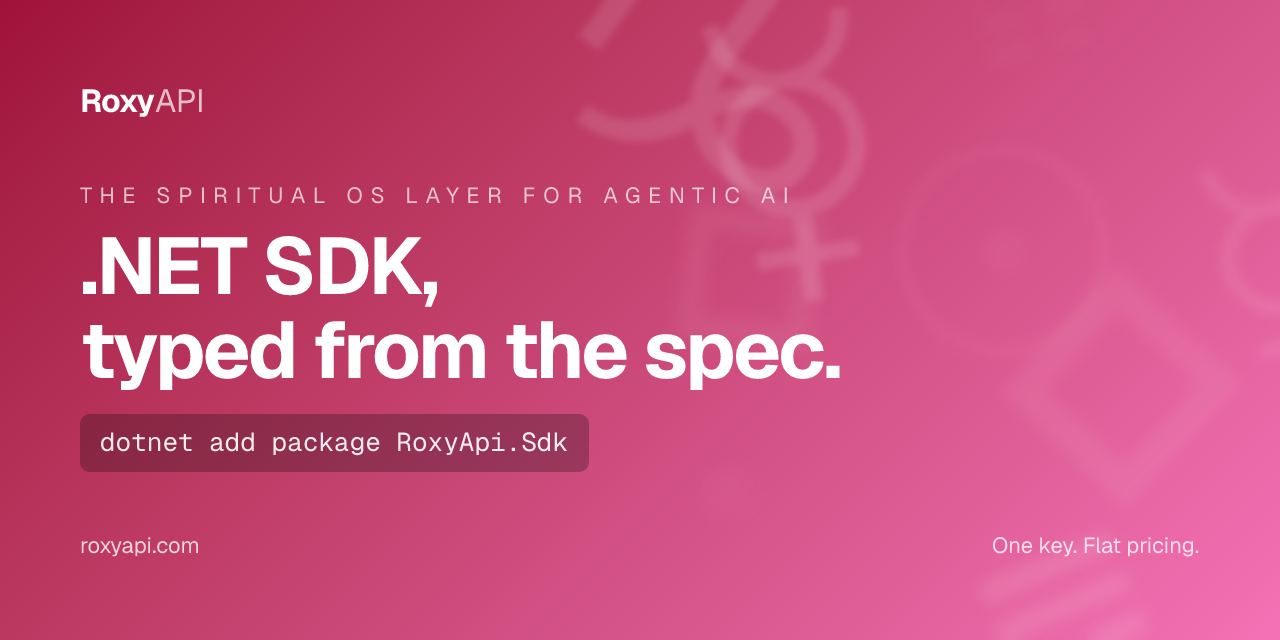
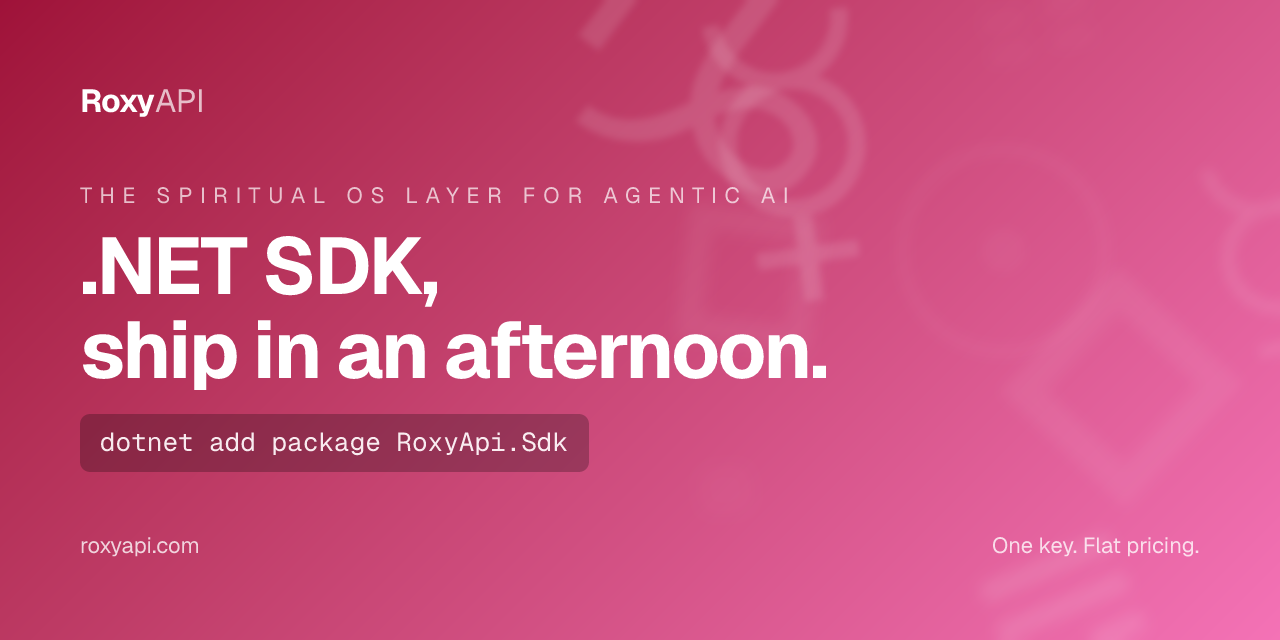
docs: hero promise line sells the outcome

Changed region(s): [[0.0625, 0.5, 0.6562, 0.625]]

diff --git a/README.md b/README.md
@@ -1,4 +1,4 @@
-[![RoxyAPI .NET SDK, typed from the spec. The Spiritual OS layer for agentic AI. One key, flat pricing.](https://raw.githubusercontent.com/RoxyAPI/sdk-dotnet/main/assets/hero.png)](https://roxyapi.com)
+[![RoxyAPI .NET SDK, ship in an afternoon. The Spiritual OS layer for agentic AI. One key, flat pricing.](https://raw.githubusercontent.com/RoxyAPI/sdk-dotnet/main/assets/hero.png)](https://roxyapi.com)
 
 # RoxyApi
 
